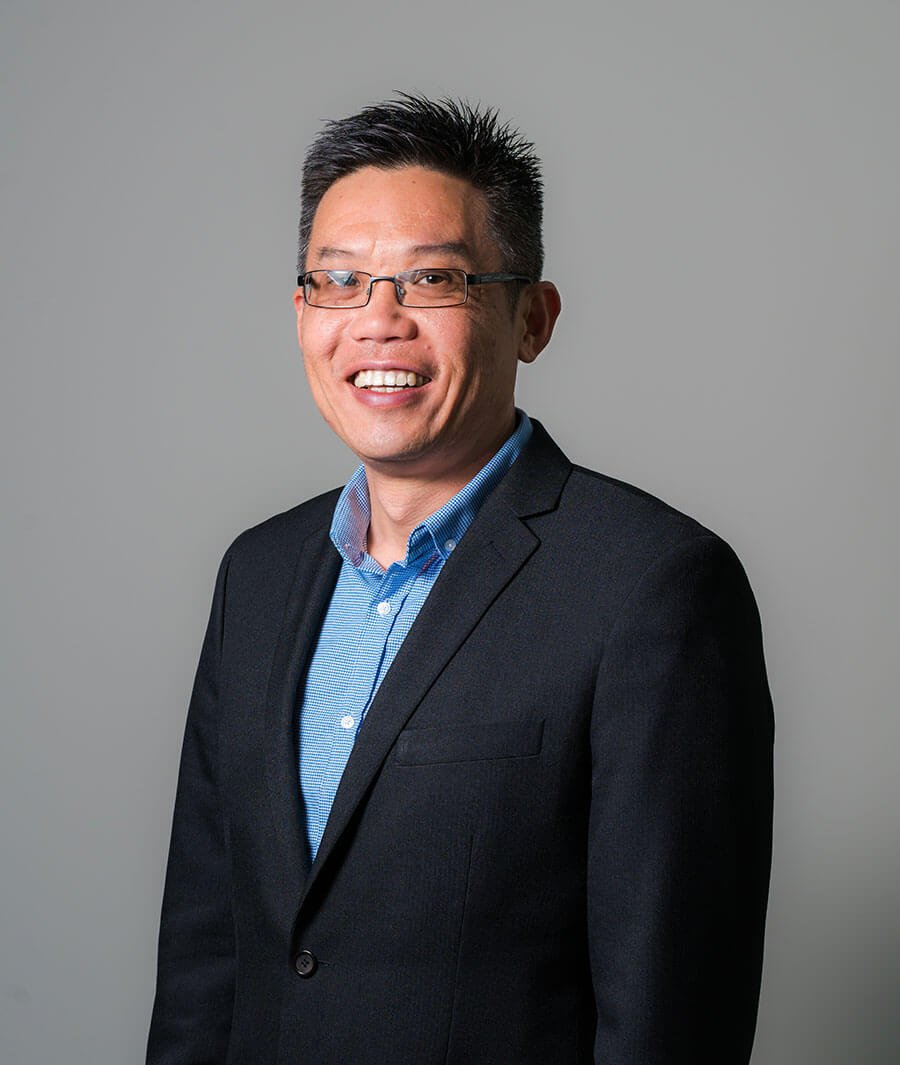
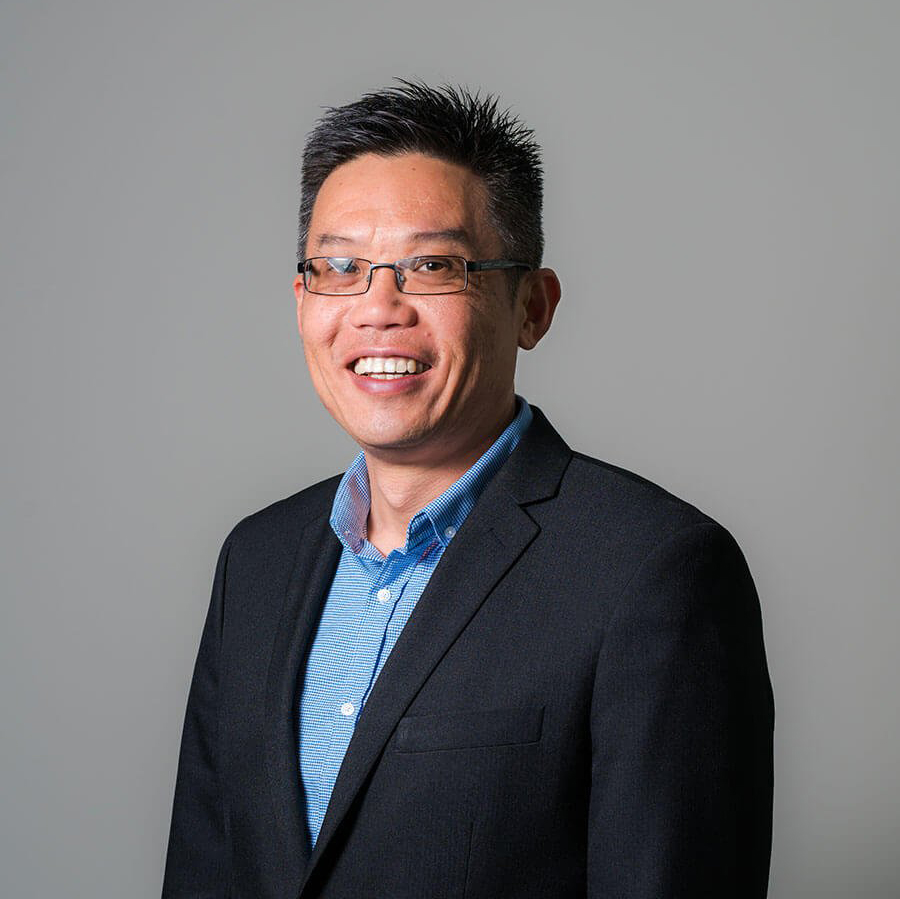
Directors images fix

diff --git a/src/pages/about/directors.js b/src/pages/about/directors.js
@@ -42,7 +42,7 @@ export default function Directors() {
           </div>
           <div data-animate-right>
             <StaticImage
-              className="w-full shadow-xl rounded-xl lg:w-auto"
+              className="w-full shadow-xl rounded-xl lg:w-auto aspect-1"
               src="../../images/iQuest-Anderson.jpeg"
               alt="iQuest About Us Banner"
               placeholder="none"
@@ -84,7 +84,7 @@ export default function Directors() {
             </p>
           </div>
           <StaticImage
-            className="w-full shadow-xl rounded-xl lg:w-auto"
+            className="w-full shadow-xl rounded-xl lg:w-auto aspect-1"
             src="../../images/iQuest-Pietro.jpg"
             alt="iQuest About Us Banner"
             placeholder="none"
@@ -120,7 +120,7 @@ export default function Directors() {
             </p>
           </div>
           <StaticImage
-            className="w-full shadow-xl rounded-xl lg:w-auto"
+            className="w-full shadow-xl rounded-xl lg:w-auto aspect-1"
             src="../../images/iQuest-Matthew.jpg"
             alt="iQuest About Us Banner"
             placeholder="none"
